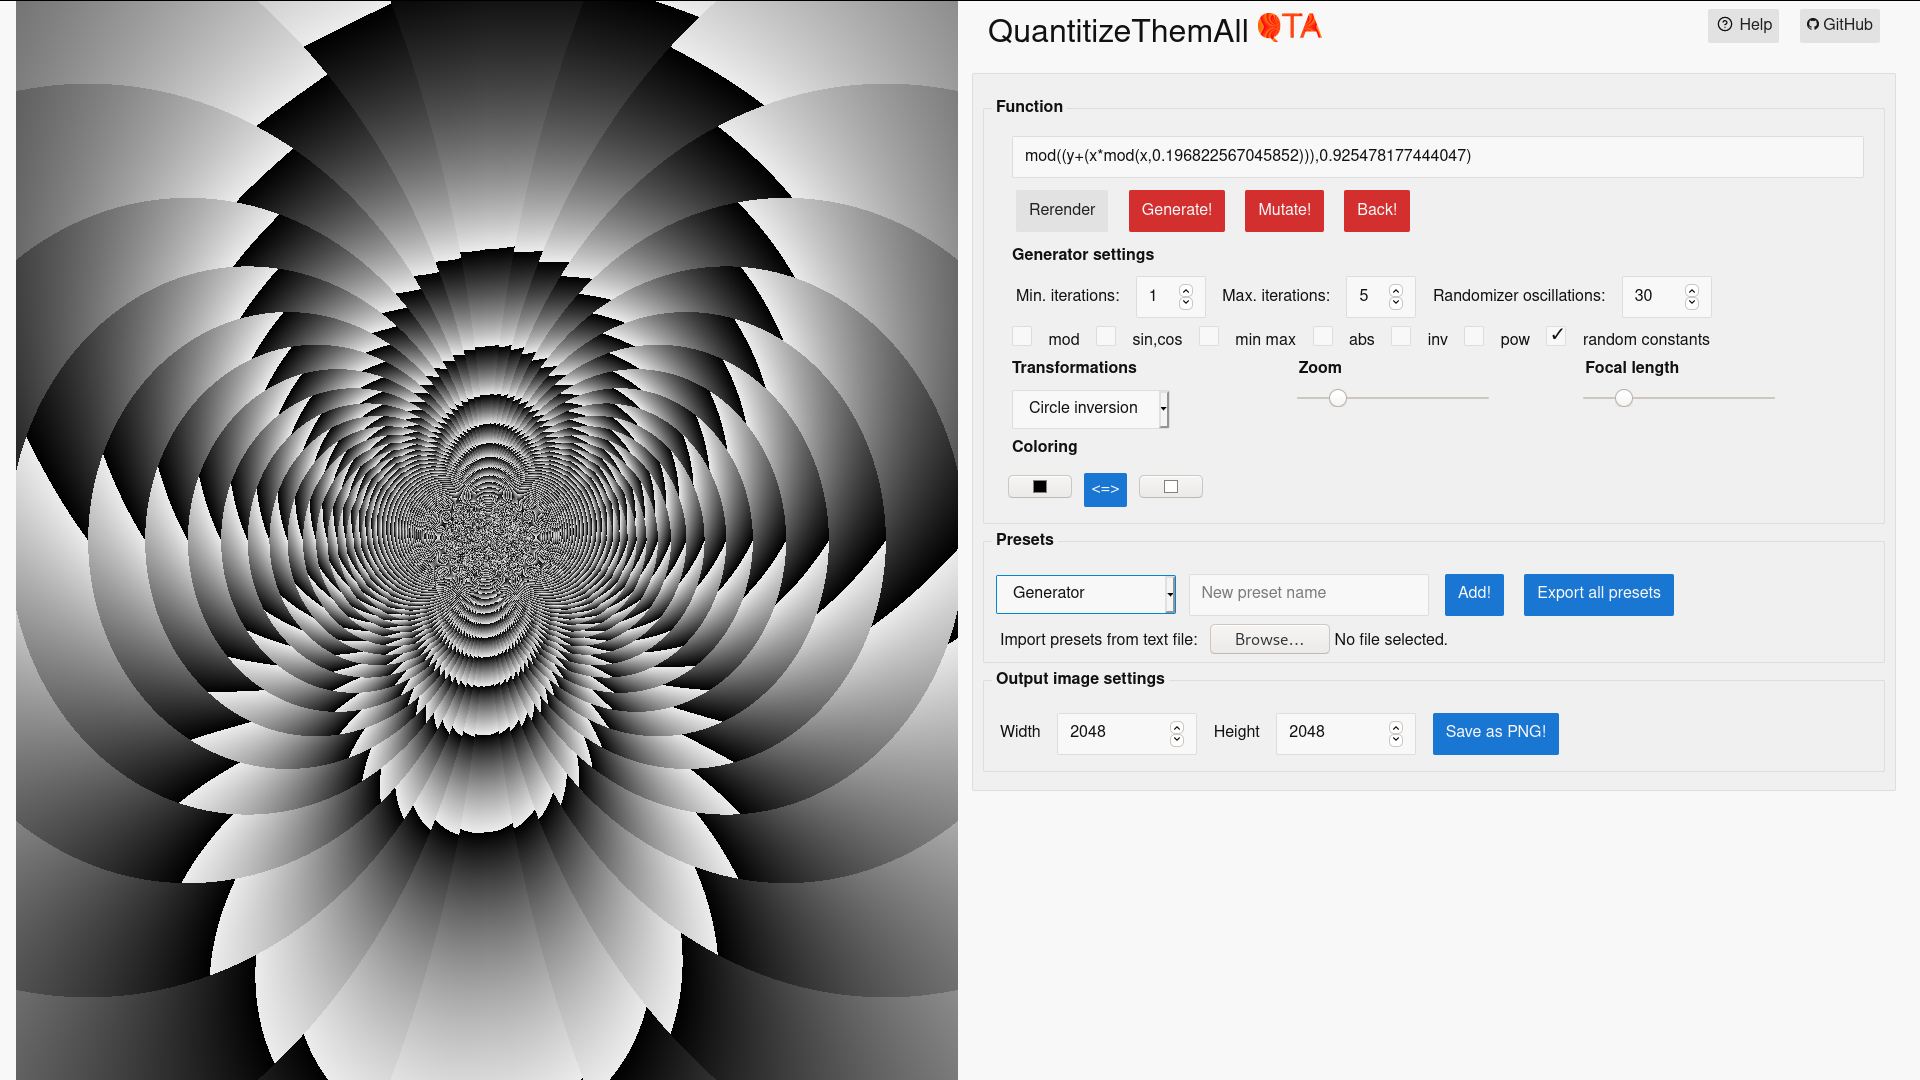
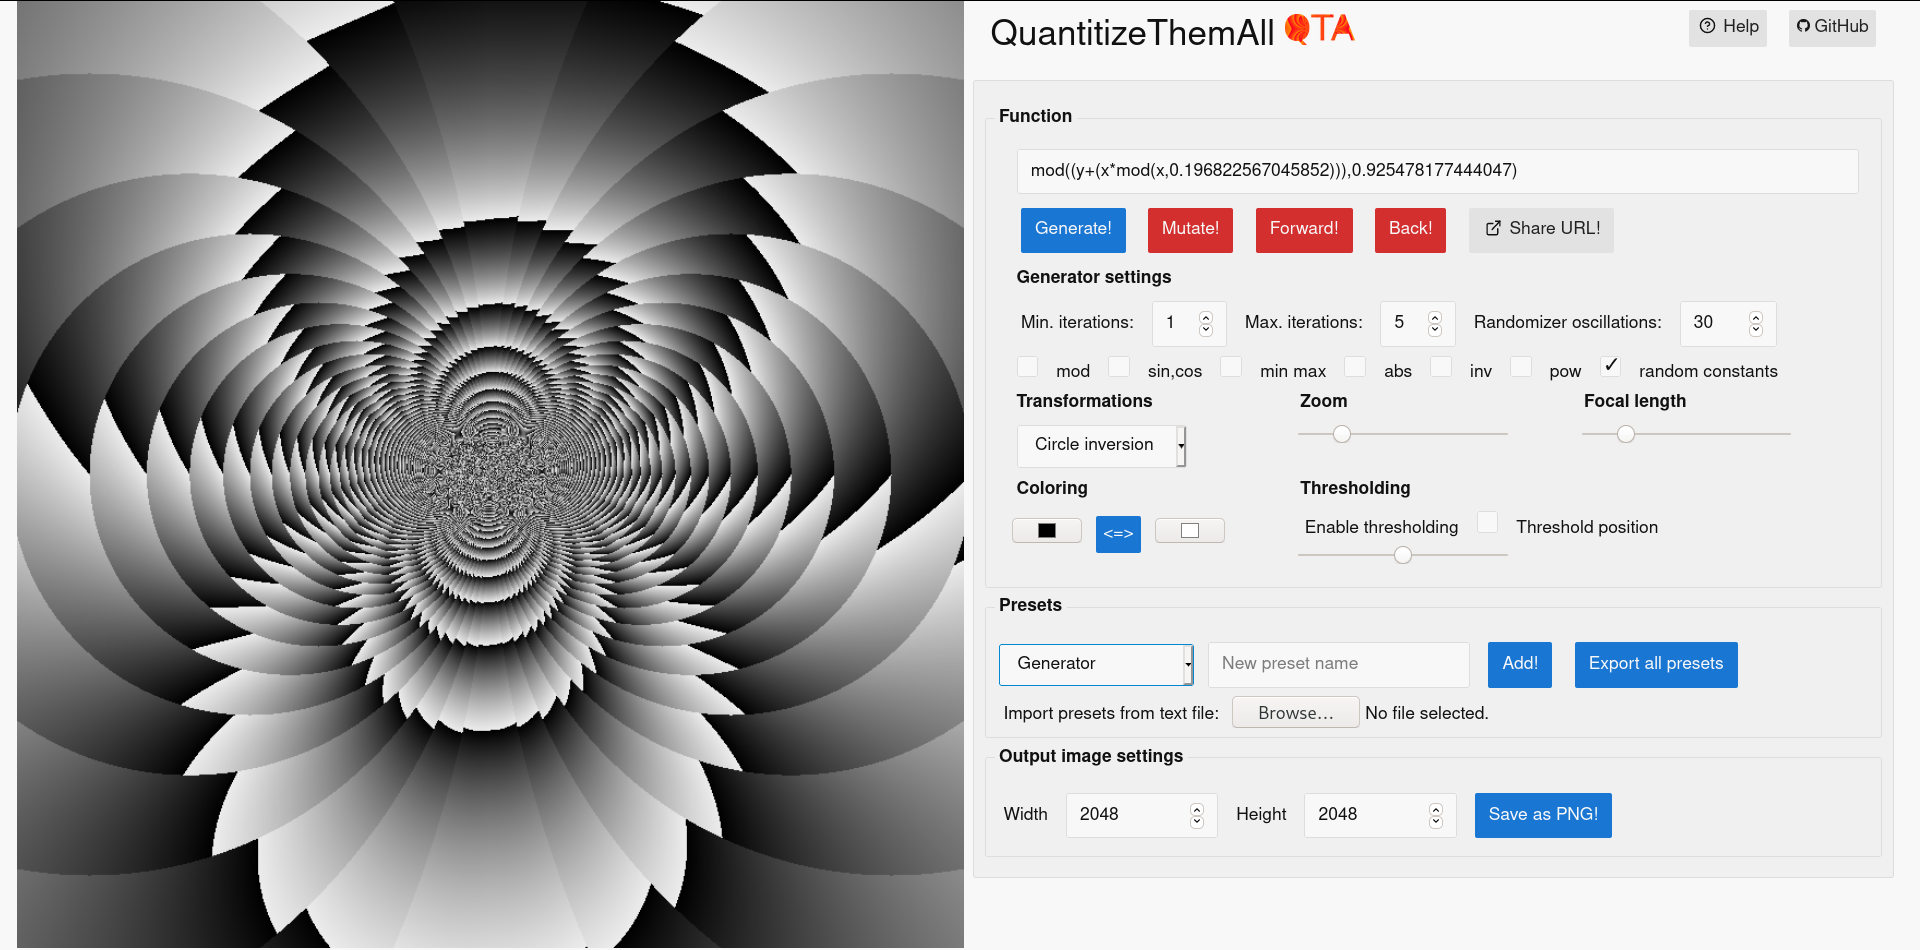
Fixed mobile resolutions

diff --git a/index.html b/index.html
@@ -24,6 +24,22 @@ canvas {
     height: 100%;
 }
 </style>
+
+<div class="container hidden-lg">
+  <div class="row">
+    <div class="col-sm-12 col-md-6">
+        <h1>QuantitizeThemAll <img src="docs/logo.png" width="64px"></h1>
+    </div>
+    <div class="col-sm-12 col-md-6" style="text-align: right;">
+        <a href="docs/about.html"><button class="small"><span class="icon-help big"></span>
+                Help </button></a>
+        <a href="https://github.com/Romop5/QuantitizeThemAll"><button class="small"><img src="docs/github.png" width="12px">
+                GitHub</button></a>
+        
+    </div>
+  </div>
+</div>
+
 <div class="container">
   <div class="row">
     <div class="col-sm-12 col-md-12 col-lg-6" id='canvas-parent'>
@@ -31,7 +47,7 @@ canvas {
         </div>
     </div>
     <div class="col-sm-12 col-md-12 col-lg-6">
-        <div class="container">
+        <div class="container hidden-md hidden-sm">
           <div class="row">
             <div class="col-sm-12 col-md-6">
                 <h1>QuantitizeThemAll <img src="docs/logo.png" width="64px"></h1>
@@ -54,7 +70,7 @@ canvas {
                 <div class="col-sm-12">
 
                     <input style="width: 100%;" type="text" id="inputProgram" value="x*x+y*y" oninput="input_updateProgram();"/>
-                    <button class="secondary" type="button" onclick="input_generateFunction();">Generate!</button>
+                    <button class="primary" type="button" onclick="input_generateFunction();">Generate!</button>
                     <button class="secondary" type="button"
                         onclick="input_mutateFunction();">Mutate!</button>
                     <button class="secondary" type="button"
